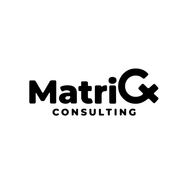
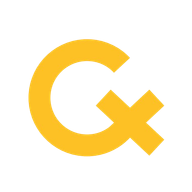
feat: Ajout de la charte graphique complète et mise à jour des icônes pour MatriCx Consulting

Changed region(s): [[0.125, 0.1875, 0.875, 0.8438]]

diff --git a/generate-icons.js b/generate-icons.js
@@ -6,8 +6,8 @@ import { fileURLToPath } from 'url';
 const __filename = fileURLToPath(import.meta.url);
 const __dirname = path.dirname(__filename);
 
-const inputImage = path.join(__dirname, 'src', 'images', 'logomatricx.png');
-const faviconImage = path.join(__dirname, 'src', 'images', 'iconelogo.png'); // Icône spéciale pour favicon
+const inputImage = path.join(__dirname, 'src', 'images', 'ongleticone.png'); // Nouvelle icône pour toutes les icônes
+const faviconImage = path.join(__dirname, 'src', 'images', 'ongleticone.png'); // Icône spéciale pour navigateur et PWA
 const outputDir = path.join(__dirname, 'public');
 
 // Créer le dossier public s'il n'existe pas

diff --git a/src/components/Header.tsx b/src/components/Header.tsx
@@ -2,7 +2,7 @@ import React, { useState } from 'react'
 import { Link, useLocation } from 'react-router-dom'
 import { useTranslation } from '../hooks/useTranslation'
 import { Menu, X, Mail, Languages } from 'lucide-react'
-import logoMatricx from '../images/logomatricx.png'
+import logoMatricx from '../images/matricxlogo.png'
 
 const Header: React.FC = () => {
   const { t, currentLanguage, changeLanguage } = useTranslation()

diff --git a/dev-dist/sw.js b/dev-dist/sw.js
@@ -82,7 +82,7 @@ define(['./workbox-ce4f0d5f'], (function (workbox) { 'use strict';
     "revision": "3ca0b8505b4bec776b69afdba2768812"
   }, {
     "url": "index.html",
-    "revision": "0.8r7b6f7njgg"
+    "revision": "0.o68e28crc48"
   }], {});
   workbox.cleanupOutdatedCaches();
   workbox.registerRoute(new workbox.NavigationRoute(workbox.createHandlerBoundToURL("index.html"), {

diff --git a/CHARTE-GRAPHIQUE-PLAN.md b/CHARTE-GRAPHIQUE-PLAN.md
@@ -1,0 +1,317 @@
+# 🎨 Plan de Mise en Conformité - Charte Graphique MatriCx Consulting
+
+## 📋 **ANALYSE DE LA CHARTE GRAPHIQUE**
+
+### 🎯 **Identité Visuelle**
+- **Concept** : Cx = Customer Experience (Expérience Client)
+- **Symboles** : Cercle, triangle, rectangle + traits géométriques
+- **Slogan** : "Amazing experiences."
+- **Police principale** : **HELVETICA** (titres et textes)
+- **Police secondaire** : **MONTSERRAT** (accompagnement)
+
+---
+
+## 🎨 **1. COULEURS À IMPLÉMENTER**
+
+### 🟡 **Couleurs Principales**
+- **JAUNE PRINCIPAL** : `#FDC300` (Pantone P 10-8 C)
+  - C 0% | M 25% | J 93% | N 0%
+  - R 253 | V 195 | B 0
+
+- **GRIS PRINCIPAL** : `#575756` (Pantone P 169-16 C)  
+  - C 0% | M 0% | J 0% | N 80%
+  - R 87 | V 87 | B 86
+
+### 🔵 **Couleurs Secondaires**
+- **BLEU SECONDAIRE** : `#0080AF` (Pantone P 15-8 C)
+  - C 85% | M 30% | J 16% | N 0%
+  - R 0 | V 128 | B 175
+
+### ⚫ **Couleurs Support**
+- **NOIR** : `#1D1D1B` 
+  - C 0% | M 0% | J 0% | N 100%
+- **BLANC** : `#FFFFFF`
+  - C 0% | M 0% | J 0% | N 0%
+
+---
+
+## 📝 **2. TYPOGRAPHIE À CHANGER**
+
+### 🔤 **Polices à Implémenter**
+1. **HELVETICA** (Police de référence)
+   - **Light Oblique** : Textes légers inclinés
+   - **Regular** : Textes courants
+   - **Bold** : Titres et emphases
+   - **Bold Oblique** : Titres inclinés
+
+2. **MONTSERRAT** (Police d'accompagnement)
+   - **Thin** à **Black** (9 variantes disponibles)
+   - À utiliser pour les sous-titres et textes secondaires
+
+---
+
+## 🔧 **3. MODIFICATIONS TECHNIQUES DÉTAILLÉES**
+
+### 🎨 **A. FICHIERS DE CONFIGURATION**
+
+#### `tailwind.config.js` - Couleurs
+```javascript
+// REMPLACER TOUTES les couleurs actuelles par :
+colors: {
+  primary: {
+    50: '#FFFBF0',   // Jaune très clair
+    100: '#FFF7E0',  // Jaune clair
+    200: '#FFECB3',  // Jaune moyen
+    300: '#FFE082',  // 
+    400: '#FFD54F',  //
+    500: '#FDC300',  // JAUNE PRINCIPAL
+    600: '#F57F17',  // Jaune foncé
+    700: '#E65100',  // Orange
+    800: '#BF360C',  // Rouge-orange
+    900: '#3E2723'   // Marron
+  },
+  secondary: {
+    50: '#E1F5FE',   // Bleu très clair
+    100: '#B3E5FC',  // Bleu clair
+    200: '#81D4FA',  //
+    300: '#4FC3F7',  //
+    400: '#29B6F6',  //
+    500: '#0080AF',  // BLEU PRINCIPAL
+    600: '#0277BD',  // Bleu foncé
+    700: '#01579B',  //
+    800: '#0D47A1',  //
+    900: '#1A237E'   // Bleu très foncé
+  },
+  gray: {
+    50: '#FAFAFA',   // Gris très clair
+    100: '#F5F5F5',  // 
+    200: '#EEEEEE',  //
+    300: '#E0E0E0',  //
+    400: '#BDBDBD',  //
+    500: '#9E9E9E',  //
+    600: '#757575',  //
+    700: '#616161',  //
+    800: '#575756',  // GRIS PRINCIPAL
+    900: '#1D1D1B'   // NOIR PRINCIPAL
+  }
+}
+```
+
+#### `tailwind.config.js` - Typographie
+```javascript
+fontFamily: {
+  'sans': ['Helvetica', 'Arial', 'sans-serif'],
+  'heading': ['Montserrat', 'Helvetica', 'sans-serif'],
+  'helvetica': ['Helvetica Neue', 'Helvetica', 'Arial', 'sans-serif'],
+  'montserrat': ['Montserrat', 'sans-serif']
+}
+```
+
+### 🎯 **B. COMPOSANTS À MODIFIER**
+
+#### **Header.tsx** - Navigation
+- [ ] **Logo** : Vérifier conformité (déjà fait avec matricxlogo.png)
+- [ ] **Couleur fond** : Blanc ou transparent 
+- [ ] **Texte navigation** : Couleur `#575756` (gris principal)
+- [ ] **Bouton CTA** : Fond `#FDC300` (jaune), texte noir
+- [ ] **Police** : Helvetica Regular pour navigation
+- [ ] **Survol** : États hover avec jaune
+
+#### **Hero Section** - Page d'accueil
+- [ ] **Titre principal** : Police Helvetica Bold, couleur `#1D1D1B`
+- [ ] **Sous-titre** : Police Montserrat Regular, couleur `#575756`
+- [ ] **Boutons CTA** : 
+  - Primaire : `#FDC300` + texte noir + Helvetica Bold
+  - Secondaire : `#0080AF` + texte blanc + Helvetica Regular
+- [ ] **Fond** : Dégradé subtil ou blanc pur
+
+#### **Services Section**
+- [ ] **Cartes services** : Bordure jaune `#FDC300` au hover
+- [ ] **Titres** : Helvetica Bold, `#1D1D1B`
+- [ ] **Descriptions** : Helvetica Regular, `#575756`
+- [ ] **Icônes** : Couleur jaune `#FDC300`
+
+#### **Footer.tsx**
+- [ ] **Fond** : `#1D1D1B` (noir principal)
+- [ ] **Texte** : Blanc `#FFFFFF`
+- [ ] **Liens** : Couleur jaune `#FDC300` au hover
+- [ ] **Police** : Helvetica Light
+
+### 📱 **C. PAGES SPÉCIFIQUES**
+
+#### **Page Contact**
+- [ ] **Formulaire** : 
+  - Bordures inputs : `#575756`
+  - Focus : `#FDC300`
+  - Labels : Helvetica Regular, `#1D1D1B`
+- [ ] **Boutons** :
+  - "Envoyer" : `#FDC300` + noir + Helvetica Bold
+  - "Prendre RDV" : `#0080AF` + blanc + Helvetica Regular
+- [ ] **Carte contact** : Bordure jaune subtile
+
+#### **Page Services**
+- [ ] **Sections** : Alternance blanc/gris très clair
+- [ ] **Call-to-actions** : Jaune principal partout
+- [ ] **Typographie** : Helvetica pour tous les textes
+
+#### **Page À Propos**
+- [ ] **Timeline/Histoire** : Éléments jaunes `#FDC300`
+- [ ] **Photos équipe** : Bordures jaunes au hover
+- [ ] **Valeurs** : Icônes jaunes
+
+#### **Page Blog**
+- [ ] **Articles** : Métadonnées en gris `#575756`
+- [ ] **Tags** : Fond jaune `#FDC300`
+- [ ] **Bouton "Lire plus"** : Style cohérent jaune
+
+### 🤖 **D. CHATBOT - REFONTE COMPLÈTE**
+
+#### **Couleurs Chatbot**
+- [ ] **Bulle bot** : Fond `#F5F5F5` (gris très clair)
+- [ ] **Bulle utilisateur** : Fond `#FDC300` (jaune principal)
+- [ ] **Texte bot** : `#1D1D1B` (noir)
+- [ ] **Texte utilisateur** : `#1D1D1B` (noir sur jaune)
+- [ ] **Boutons actions** : 
+  - Fond : `#0080AF` (bleu secondaire)
+  - Texte : Blanc
+  - Hover : `#FDC300` (jaune)
+
+#### **Typographie Chatbot**
+- [ ] **Messages** : Helvetica Regular
+- [ ] **Boutons** : Helvetica Bold
+- [ ] **En-tête** : Montserrat Bold
+
+#### **Icônes & États**
+- [ ] **Icône chat** : Jaune `#FDC300`
+- [ ] **Animation typing** : Points jaunes
+- [ ] **Scroll** : Couleur principale jaune
+
+### 🔘 **E. BOUTONS - SYSTÈME UNIFIÉ**
+
+#### **Boutons Principaux**
+```css
+.btn-primary {
+  background: #FDC300;
+  color: #1D1D1B;
+  font-family: 'Helvetica', sans-serif;
+  font-weight: bold;
+  border-radius: 8px;
+  padding: 12px 24px;
+}
+
+.btn-primary:hover {
+  background: #E6B000;
+  transform: translateY(-2px);
+}
+```
+
+#### **Boutons Secondaires**
+```css
+.btn-secondary {
+  background: #0080AF;
+  color: #FFFFFF;
+  font-family: 'Helvetica', sans-serif;
+  font-weight: normal;
+}
+
+.btn-secondary:hover {
+  background: #006B93;
+}
+```
+
+#### **Boutons Tertiaires**
+```css
+.btn-tertiary {
+  background: transparent;
+  color: #575756;
+  border: 2px solid #575756;
+}
+
+.btn-tertiary:hover {
+  background: #FDC300;
+  border-color: #FDC300;
+  color: #1D1D1B;
+}
+```
+
+---
+
+## 🎯 **4. ÉLÉMENTS GRAPHIQUES SPÉCIAUX**
+
+### 🔸 **Motifs et Patterns**
+- [ ] **Pattern Cx** : Utiliser le motif répétitif de la charte (page 5)
+- [ ] **Fond sections** : Intégrer discrètement le pattern
+- [ ] **Dividers** : Lignes jaunes `#FDC300`
+
+### 🔸 **Icônes et Symboles**
+- [ ] **Remplacer toutes les icônes** par le style géométrique de la charte
+- [ ] **Forme Cx** : Utiliser comme élément décoratif
+- [ ] **Couleur icônes** : Jaune principal ou gris selon contexte
+
+---
+
+## 📄 **5. CONTENUS TEXTUELS À MODIFIER**
+
+### 📝 **Slogan Principal**
+- [ ] **Remplacer par** : "Amazing experiences."
+- [ ] **Emplacement** : Hero section, footer, à propos
+
+### 📝 **Tons et Messages**
+- [ ] **Accent sur CX** : Customer Experience partout
+- [ ] **Vocabulaire** : Expérience, matrice, excellence, transformation
+- [ ] **Call-to-actions** : "Transformez votre CX", "Créez des expériences amazing"
+
+---
+
+## 🔧 **6. ORDRE DE PRIORITÉ D'IMPLÉMENTATION**
+
+### 🚨 **PRIORITÉ 1 - Critique**
+1. **Couleurs primaires** (jaune/gris/bleu)
+2. **Typographie Helvetica/Montserrat**
+3. **Logo et favicon** (déjà fait ✅)
+4. **Boutons principaux**
+
+### ⚠ **PRIORITÉ 2 - Important** 
+5. **Chatbot couleurs**
+6. **Header navigation**
+7. **Footer**
+8. **Formulaires**
+
+### ℹ **PRIORITÉ 3 - Amélioration**
+9. **Patterns décoratifs**
+10. **Animations cohérentes**
+11. **Icônes personnalisées**
+12. **Micro-interactions**
+
+---
+
+## 📋 **7. CHECKLIST DE VALIDATION**
+
+### ✅ **Contrôles Finaux**
+- [ ] Toutes les couleurs correspondent aux Pantone
+- [ ] Typographie Helvetica partout
+- [ ] Slogan "Amazing experiences" intégré
+- [ ] Chatbot aux couleurs de la charte
+- [ ] Boutons cohérents sur toutes les pages
+- [ ] Responsive design maintenu
+- [ ] PWA icônes conformes
+- [ ] Accessibilité préservée
+
+---
+
+## 💡 **NOTES IMPORTANTES**
+
+### ⚠ **Contraintes Techniques**
+- Vérifier la compatibilité des polices web
+- Tester les contrastes d'accessibilité
+- Maintenir les performances PWA
+- Préserver la structure React existante
+
+### 🎯 **Objectif Final**
+Créer une expérience visuelle 100% conforme à la charte graphique MatriCx Consulting, centrée sur l'identité "Customer Experience" avec les couleurs jaune/gris/bleu et la typographie Helvetica/Montserrat.
+
+---
+
+**📅 Date de création** : 14 octobre 2025  
+**🎨 Charte analysée** : Identité Visuelle MatriCx Consulting  
+**⏭ Étape suivante** : Implémentation par ordre de priorité
